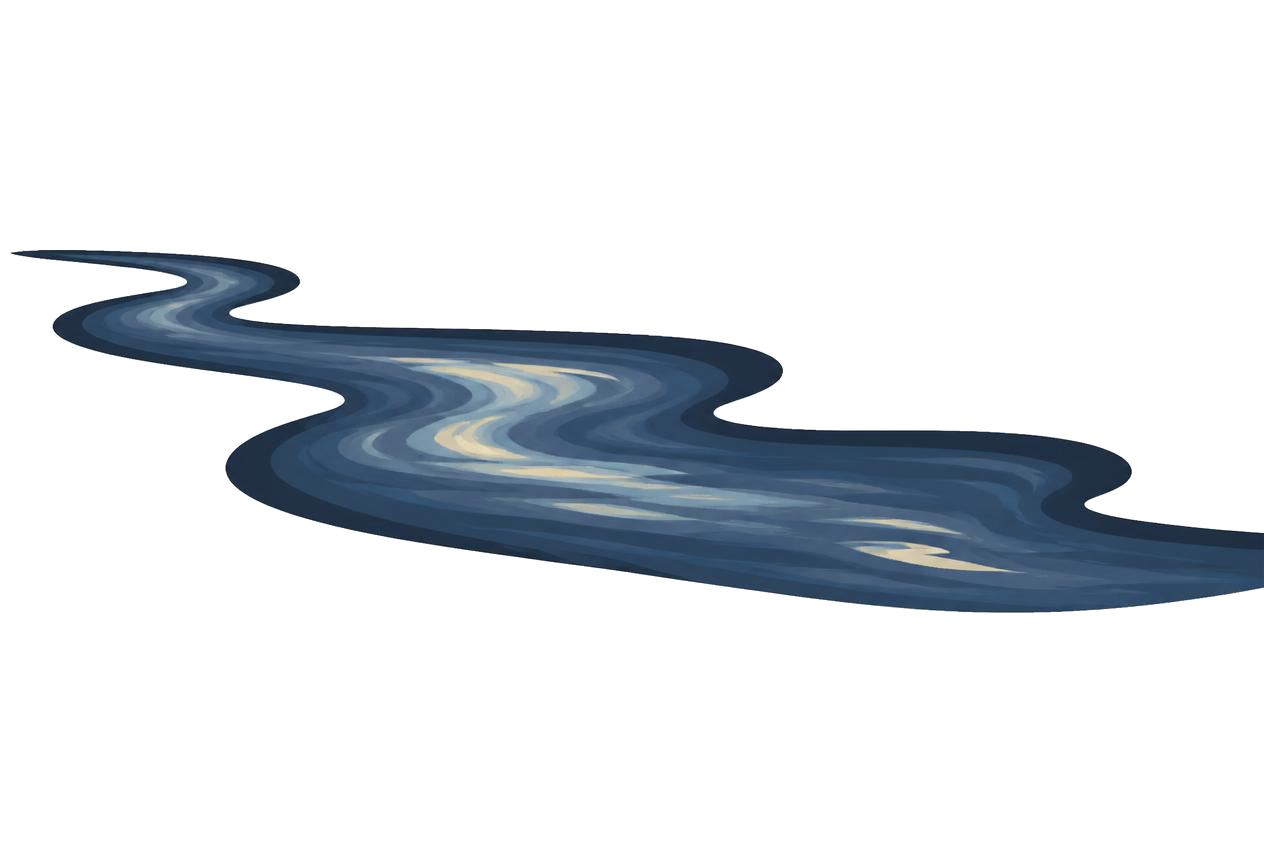
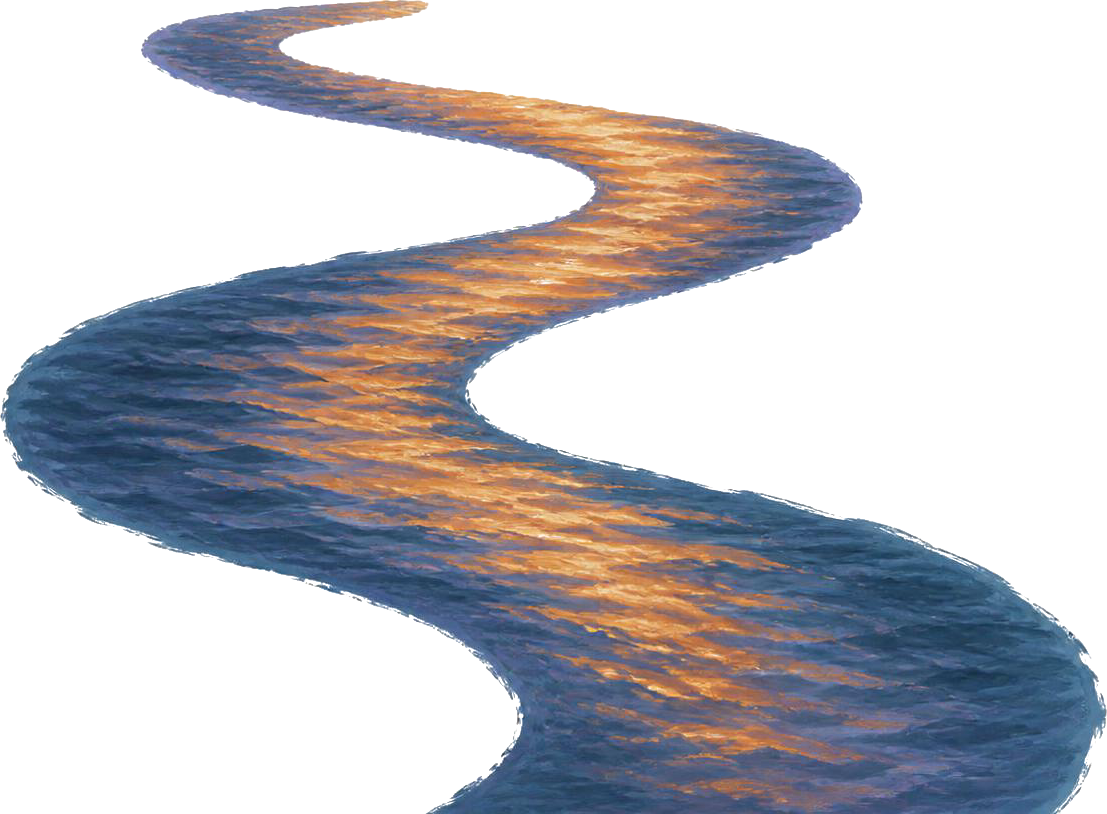
Repaint river and wheatfield layers to match the new painterly style
Same image-to-image approach off the mountains reference, so the
foreground river and the night-cover wheatfield no longer clash with
the rest of the repainted scene.

diff --git a/src/components/village-parallax-scene.tsx b/src/components/village-parallax-scene.tsx
@@ -320,7 +320,7 @@ export function VillageParallaxScene() {
             src="/images/parallax-wheatfield.png"
             alt=""
             width={1264}
-            height={848}
+            height={664}
             className="absolute bottom-0 left-0 h-[40%] w-full object-cover object-top"
           />
         </div>
